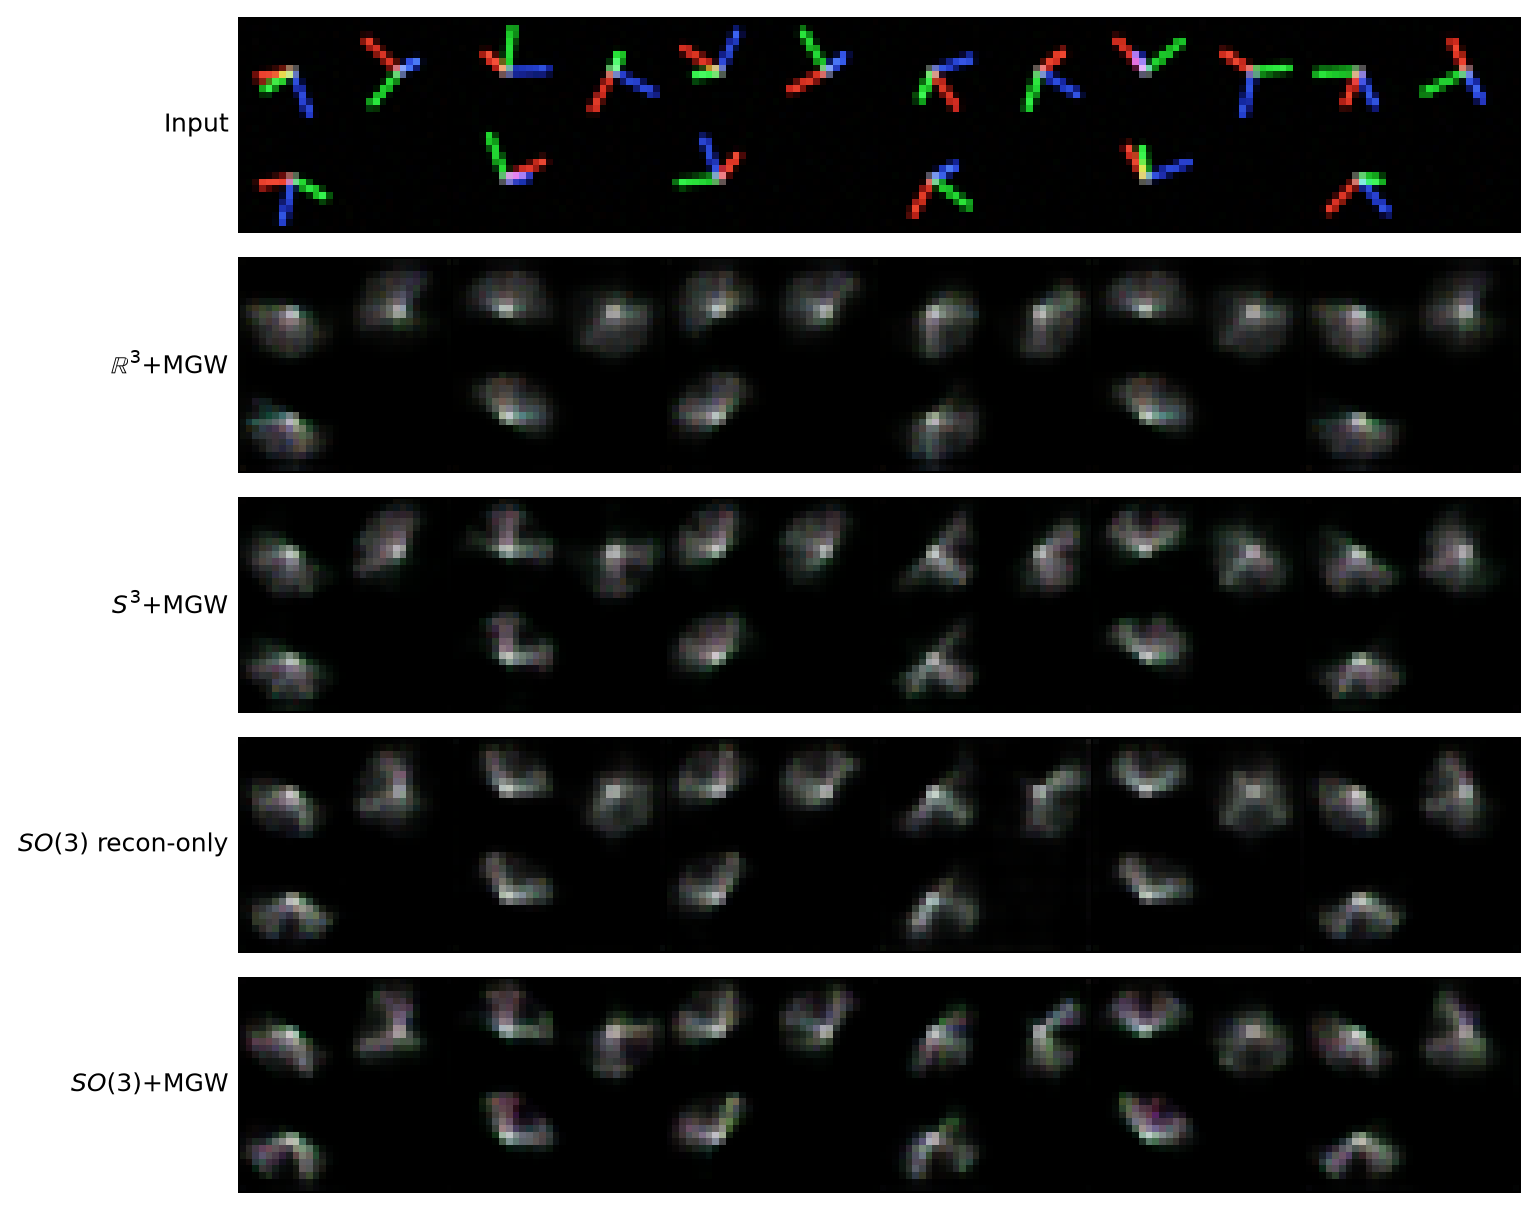
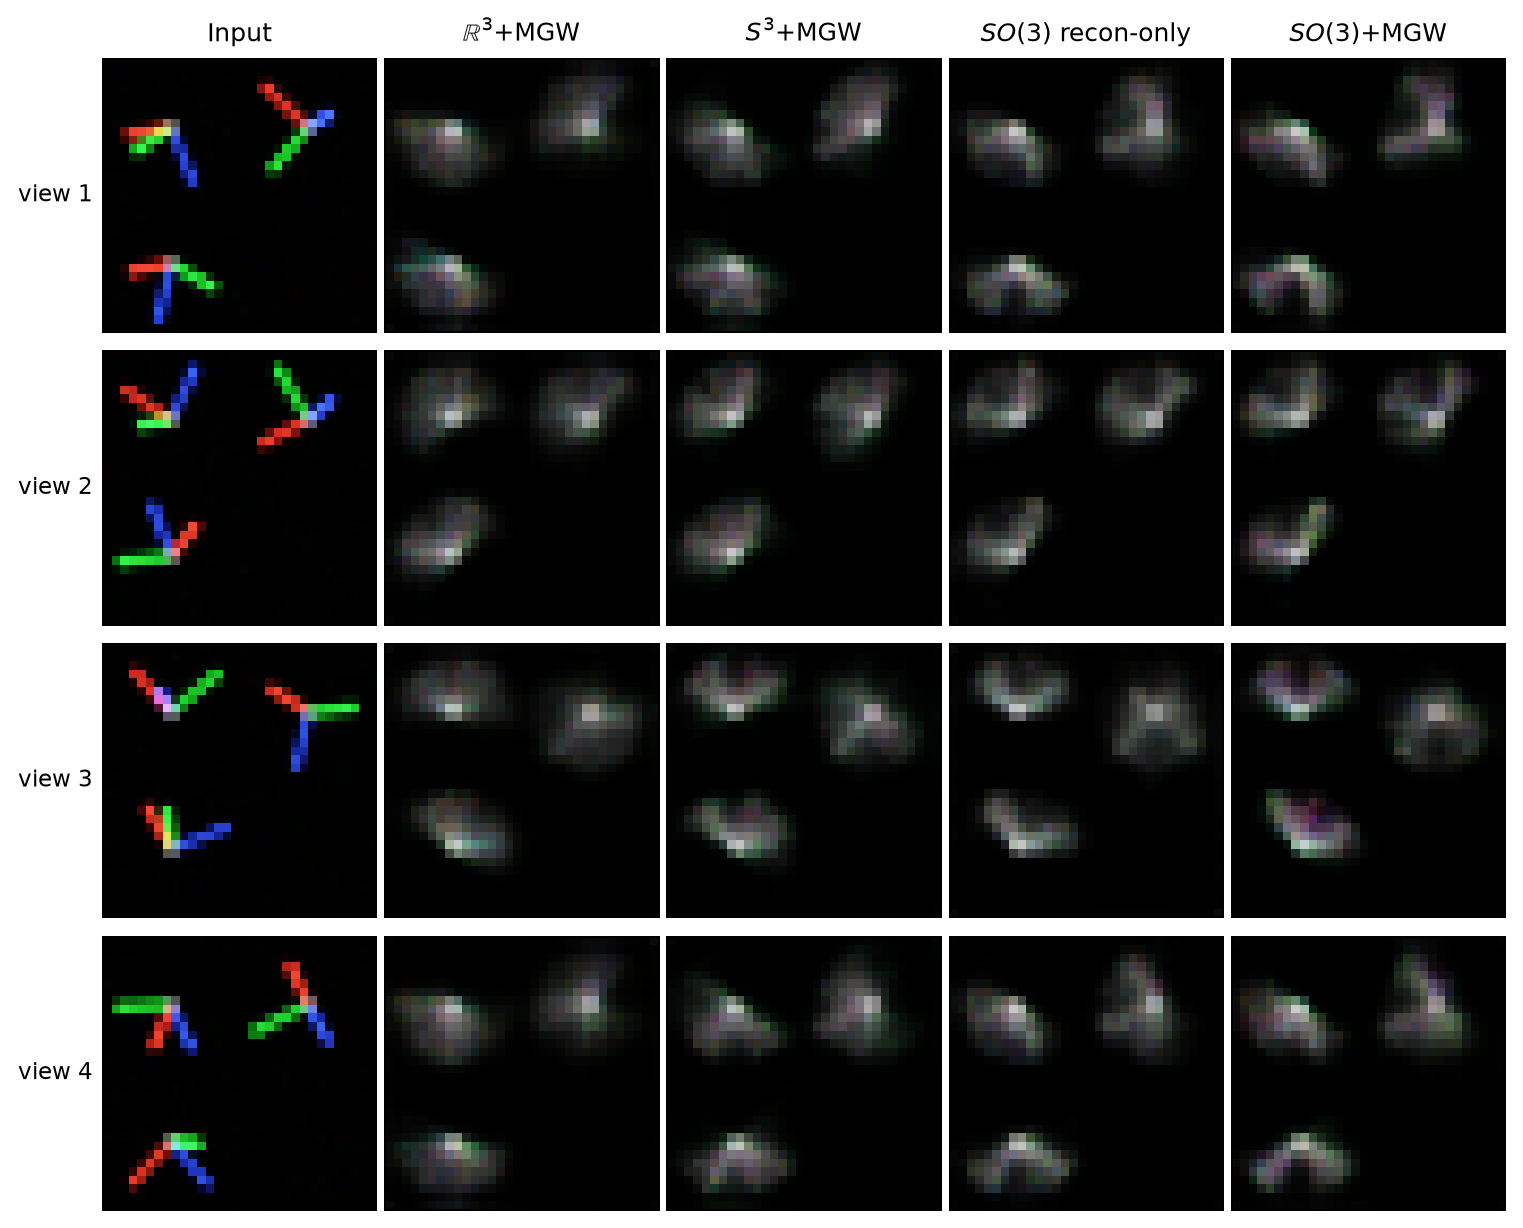
docs: 再構成画像をモデル横並びで比較する

diff --git a/paper/ot-manifold-approximation/experiments/rotation_image_manifold.py b/paper/ot-manifold-approximation/experiments/rotation_image_manifold.py
@@ -477,24 +477,25 @@ def save_reconstruction_figure(
     originals: np.ndarray,
     reconstructions: dict[str, np.ndarray],
 ) -> None:
-    chosen = np.array([3, 47, 91, 136, 208, 277])
-    rows = [("Input", originals)] + [
+    chosen = np.array([3, 91, 208, 277])
+    columns = [("Input", originals)] + [
         (next(s.label for s in SPECS if s.key == key), reconstructions[key])
         for key in ["r3_gw", "s3_gw", "so3_recon", "so3_gw"]
     ]
-    fig, axes = plt.subplots(len(rows), len(chosen), figsize=(8.4, 6.7))
-    for row_index, (label, images) in enumerate(rows):
-        for col_index, idx in enumerate(chosen):
+    fig, axes = plt.subplots(len(chosen), len(columns), figsize=(8.4, 6.8))
+    for row_index, idx in enumerate(chosen):
+        for col_index, (label, images) in enumerate(columns):
             axes[row_index, col_index].imshow(
                 np.moveaxis(images[idx], 0, -1), interpolation="nearest"
             )
             axes[row_index, col_index].set_xticks([])
             axes[row_index, col_index].set_yticks([])
-            if col_index == 0:
-                axes[row_index, col_index].set_ylabel(
-                    label, rotation=0, ha="right", va="center"
-                )
-    fig.tight_layout(pad=0.25)
+            if row_index == 0:
+                axes[row_index, col_index].set_title(label, fontsize=10, pad=7)
+        axes[row_index, 0].set_ylabel(
+            f"view {row_index + 1}", rotation=0, ha="right", va="center", fontsize=9
+        )
+    fig.tight_layout(pad=0.45, w_pad=0.35, h_pad=0.45)
     fig.savefig(HERE / "rotation_reconstructions.png", dpi=180, bbox_inches="tight")
     plt.close(fig)
 
